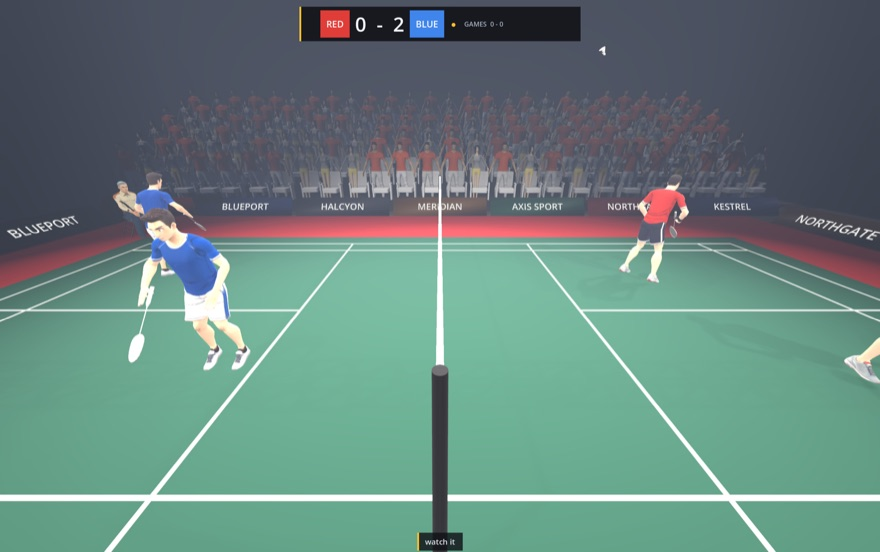
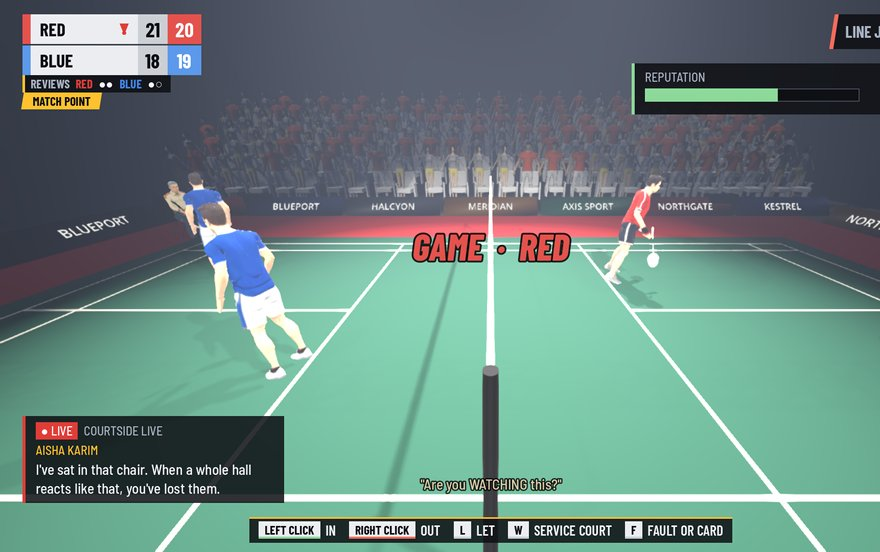
Referee For Fun card: the broadcast score bug, and a line about it

diff --git a/index.html b/index.html
@@ -706,10 +706,10 @@ p{margin:.7em 0}
         </div>
       </div>
     <div class="work rv wide" data-cat="game">
-        <div class="shot"><img src="img/referee-for-fun.jpg" alt="Badminton rally seen from the umpire's chair, scoreboard reading 0-2" loading="lazy" width="880" height="552"></div>
+        <div class="shot"><img src="img/referee-for-fun.jpg" alt="Badminton rally from the umpire's chair with a BWF-style score bug reading 21-18, 20-19 and a match point tab" loading="lazy" width="880" height="552"></div>
         <div class="work-body">
           <div class="work-head"><h3>Referee For Fun</h3><span class="cat cat-game">Game Dev</span></div>
-          <p>A first-person game where you are the umpire, not the athlete. The match is physically simulated in front of you and the engine always knows the truth — so you can bend every close call, limited only by how much suspicion the crowd tolerates. Five sports share one official and one reputation, and two TV commentators who remember your whole career. In badminton the night is shot like a broadcast: the umpire leads the players on and tosses the coin, the players shake hands at the end, and a removed umpire is walked off court.</p>
+          <p>A first-person game where you are the umpire, not the athlete. The match is physically simulated in front of you and the engine always knows the truth — so you can bend every close call, limited only by how much suspicion the crowd tolerates. Five sports share one official and one reputation, and two TV commentators who remember your whole career. In badminton the night is shot like a broadcast: the umpire leads the players on and tosses the coin, the players shake hands at the end, and a removed umpire is walked off court. Every sport's on-screen score is laid out like its own television broadcast — BWF, FIVB, the tennis tours, WTT.</p>
           <div class="chips"><span class="chip">Godot 4</span><span class="chip">GDScript</span><span class="chip">Physics simulation</span><span class="chip">macOS + Windows</span></div>
         </div>
       </div>
